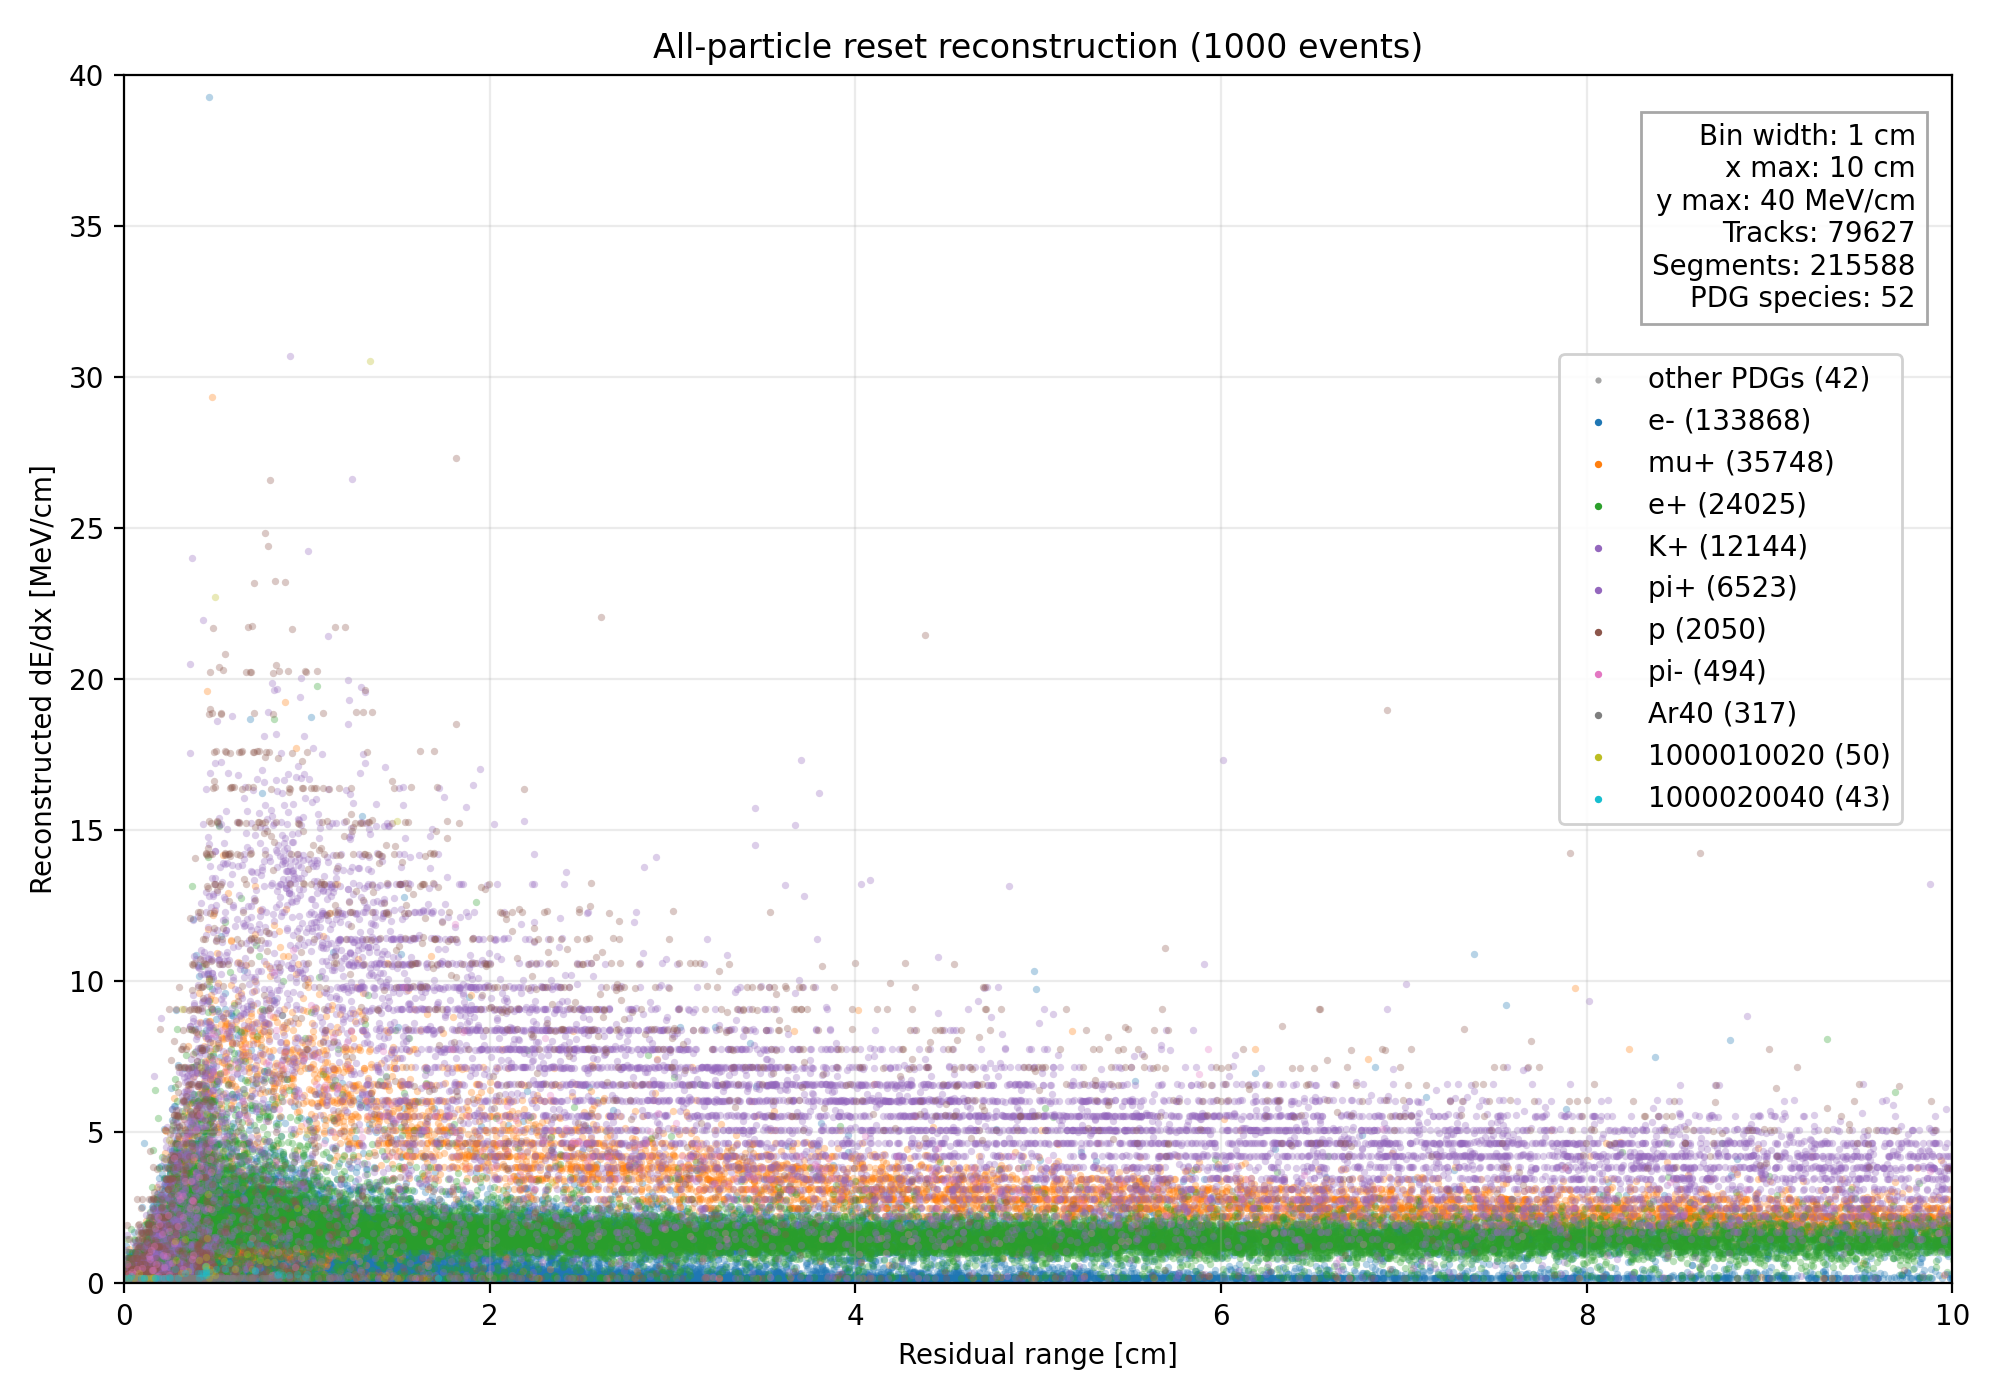
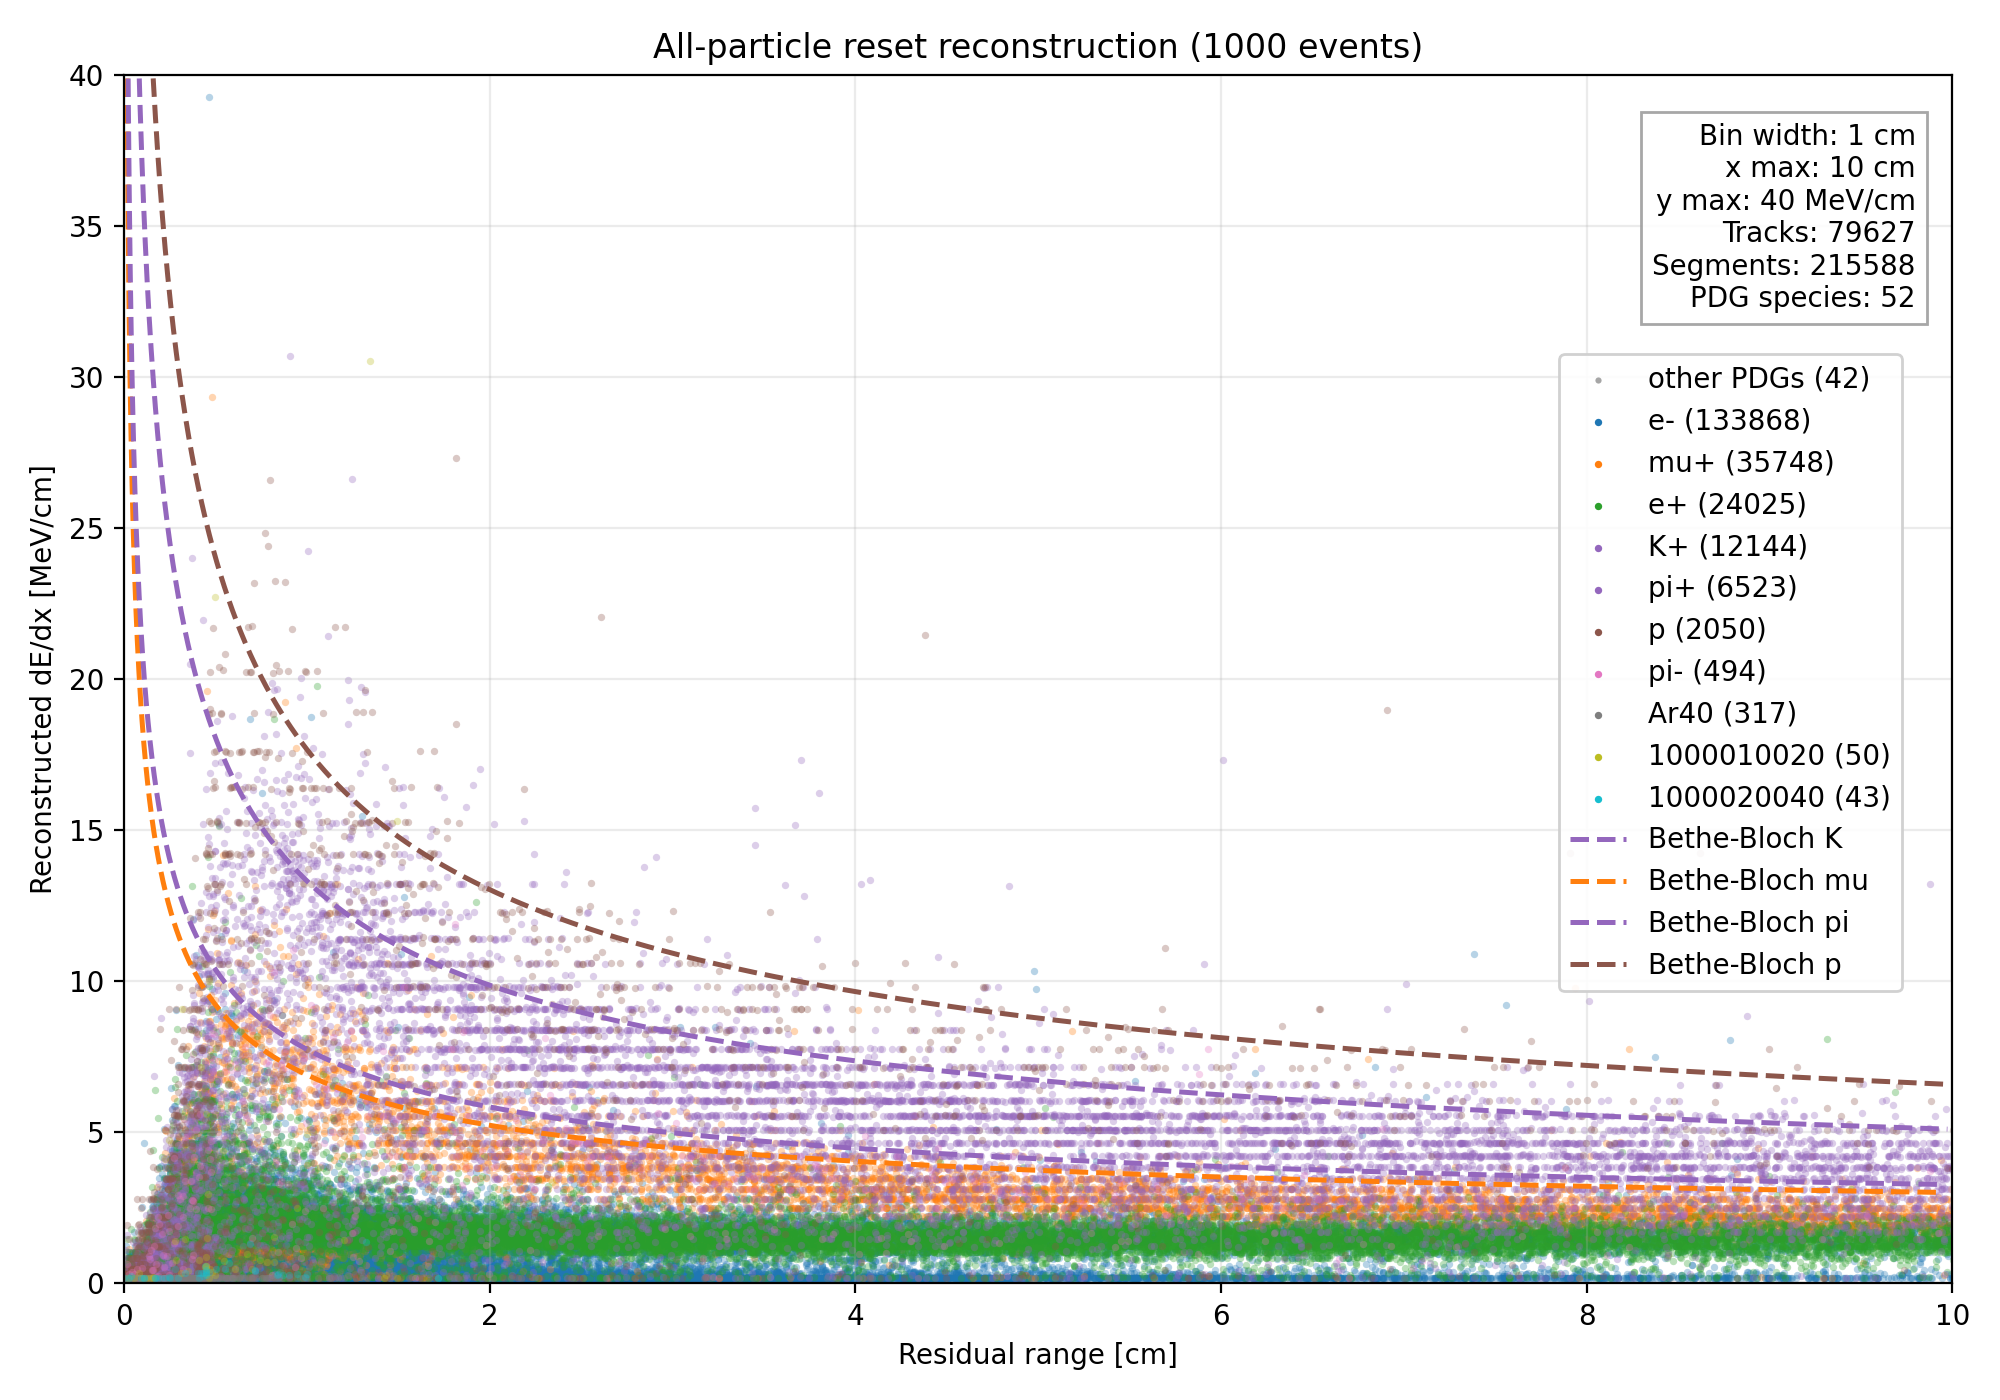
added bethe bloch theory to all particle plot

diff --git a/G4_QPIX_analysis/dEdx_vs_residual_range_resets.py b/G4_QPIX_analysis/dEdx_vs_residual_range_resets.py
@@ -41,6 +41,13 @@ PDG_LABELS = {
     1000180400: "Ar40",
 }
 
+THEORY_PARTICLES = {
+    "K": {"mass_MeV": 493.677, "pdgs": (321, -321)},
+    "mu": {"mass_MeV": 105.658, "pdgs": (13, -13)},
+    "pi": {"mass_MeV": 139.570, "pdgs": (211, -211)},
+    "p": {"mass_MeV": 938.272, "pdgs": (2212,)},
+}
+
 
 def find_required_file(input_path, file_name):
     input_path = Path(input_path).expanduser().resolve()
@@ -425,6 +432,7 @@ def make_all_particles_plot(
     x_max_cm=None,
     y_max_mev_per_cm=None,
     log_y=True,
+    theory_lines=False,
 ):
     counts = binned["PDG"].value_counts()
     top_pdgs = list(counts.head(10).index)
@@ -444,9 +452,11 @@ def make_all_particles_plot(
         )
 
     cmap = plt.get_cmap("tab10")
+    pdg_colors = {}
     for index, pdg in enumerate(top_pdgs):
         group = binned[binned["PDG"] == pdg]
         color = "tab:purple" if abs(int(pdg)) == KAON_PDG else cmap(index % 10)
+        pdg_colors[int(pdg)] = color
         ax.scatter(
             group["residual_range_cm"],
             group["dEdx_MeV_per_cm"],
@@ -457,6 +467,34 @@ def make_all_particles_plot(
             label=f"{pdg_label(pdg)} ({len(group)})",
             rasterized=True,
         )
+
+    if theory_lines:
+        theory_max_range = x_max_cm
+        if theory_max_range is None:
+            theory_max_range = max(float(binned["residual_range_cm"].max()), 1.0)
+        fallback_colors = {
+            "K": "tab:purple",
+            "mu": "tab:red",
+            "pi": "tab:brown",
+            "p": "tab:pink",
+        }
+        for label, config in THEORY_PARTICLES.items():
+            color = fallback_colors[label]
+            for pdg in config["pdgs"]:
+                if pdg in pdg_colors:
+                    color = pdg_colors[pdg]
+                    break
+            theory_range, theory_dedx = bethe_bloch_lar(
+                config["mass_MeV"], theory_max_range
+            )
+            ax.plot(
+                theory_range,
+                theory_dedx,
+                color=color,
+                linestyle="--",
+                linewidth=1.8,
+                label=f"Bethe-Bloch {label}",
+            )
 
     if log_y:
         ax.set_yscale("log")
@@ -560,6 +598,7 @@ def main():
         x_max_cm=10.0,
         y_max_mev_per_cm=40.0,
         log_y=False,
+        theory_lines=True,
     )
     binned.to_csv(binned_csv, index=False)
     summary_path.write_text(

diff --git a/G4_QPIX_analysis/README_dEdx_resets.md b/G4_QPIX_analysis/README_dEdx_resets.md
@@ -116,7 +116,8 @@ The script writes:
 - a primary-kaon-only reset reconstruction with the kaon Bethe-Bloch curve;
 - a primary-kaon view capped at 10 cm residual range and 40 MeV/cm;
 - an all-particle reset reconstruction, colored by the most common PDG species;
-- an all-particle view capped at 10 cm residual range and 40 MeV/cm;
+- an all-particle view capped at 10 cm residual range and 40 MeV/cm, with
+  Bethe-Bloch curves for kaons, muons, pions, and protons;
 - a CSV containing every reconstructed 1 cm segment;
 - a text summary of the input and reconstruction settings.
 
